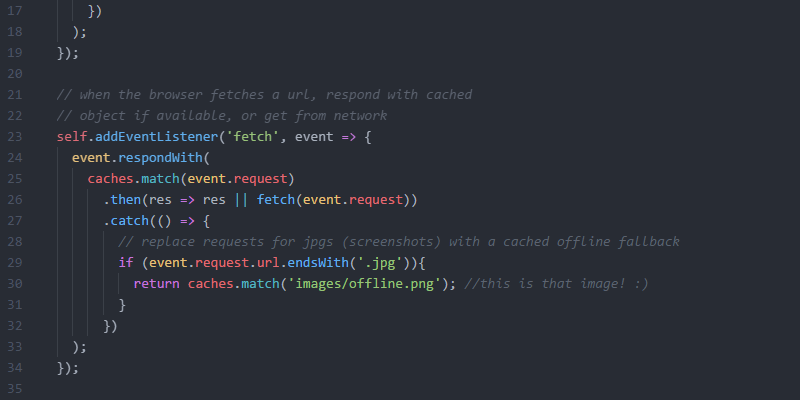
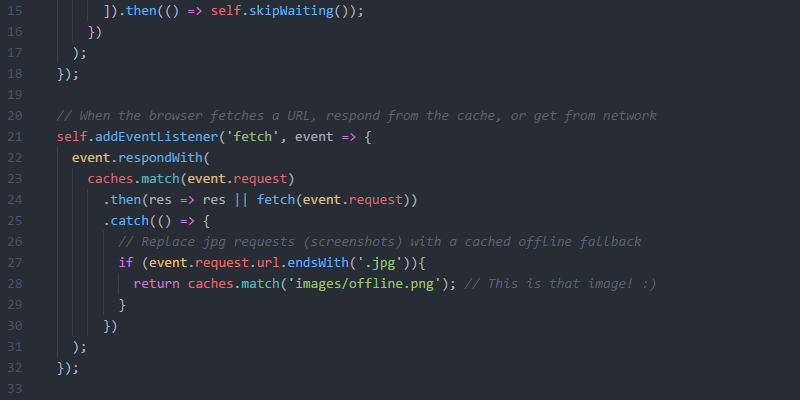
Updated comments
Removed old, commented out code, and updated comments. Updated offline
fallback image.

diff --git a/app/sw.js b/app/sw.js
@@ -1,8 +1,7 @@
 const cacheName = 'v1.0::static';
 
 self.addEventListener('install', event => {
-  // once the SW is installed, go ahead and fetch the resources
-  // to make this work offline
+  // Once SW is installed, fetch the resources to make this work offline
   event.waitUntil(
     caches.open(cacheName).then(cache => {
       return cache.addAll([
@@ -18,28 +17,22 @@ self.addEventListener('install', event => {
   );
 });
 
-// when the browser fetches a url, respond with cached
-// object if available, or get from network
+// When the browser fetches a URL, respond from the cache, or get from network
 self.addEventListener('fetch', event => {
   event.respondWith(
     caches.match(event.request)
       .then(res => res || fetch(event.request))
       .catch(() => {
-        // replace requests for jpgs (screenshots) with a cached offline fallback
+        // Replace jpg requests (screenshots) with a cached offline fallback
         if (event.request.url.endsWith('.jpg')){
-          return caches.match('images/offline.png'); //this is that image! :)
+          return caches.match('images/offline.png'); // This is that image! :)
         }
       })
   );
 });
 
-// self.addEventListener('activate', function(event) {
-//   // Calling claim() to force a "controllerchange" event on navigator.serviceWorker
-//   event.waitUntil(self.clients.claim());
-// });
-
-self.addEventListener("activate", event => {
-  // Replace old cached version with updated one
+self.addEventListener('activate', event => {
+  // Replace old cached objects with updated ones
   function clearOldCaches(){
     return caches.keys()
       .then( keys => {
@@ -48,40 +41,10 @@ self.addEventListener("activate", event => {
           .map(key => caches.delete(key))
         );
       });
-      // .then(function (keys) {
-      //   return Promise.all(
-      //     keys.filter(function (key) {
-      //       return !key.startsWith(cacheName);
-      //     })
-      //     .map(function (key) {
-      //       return caches.delete(key);
-      //     })
-      //   );
-      // });
   }
 
-  // Calling claim() to force a "controllerchange" event on navigator.serviceWorker
+  // Activate Service Worker
   event.waitUntil(clearOldCaches()
     .then( () => self.clients.claim() )
   );
-
-  // console.log('WORKER: activate event in progress.');
-  // event.waitUntil(
-  //   caches
-  //     .keys()
-  //     .then(function (keys) {
-  //       return Promise.all(
-  //         keys
-  //           .filter(function (key) {
-  //             return !key.startsWith(cacheName);
-  //           })
-  //           .map(function (key) {
-  //             return caches.delete(key);
-  //           })
-  //       );
-  //     })
-  //     .then(function() {
-  //       console.log('WORKER: activate completed.');
-  //     })
-  // );
 });

diff --git a/app/js/app.js b/app/js/app.js
@@ -1,35 +1,34 @@
 function init() {
-  window.addEventListener("scroll", function(e) {
+  window.addEventListener('scroll', function(e) {
     var distanceY = window.pageYOffset || document.documentElement.scrollTop,
-        header = document.querySelector("header");
+        header = document.querySelector('header');
     if (distanceY > 0) {
-      header.classList.add("small");
+      header.classList.add('small');
     } else {
-      header.classList.remove("small");
+      header.classList.remove('small');
     }
   });
 
   /* Service Worker! */
-  // if('serviceWorker' in navigator) {
-  //   navigator.serviceWorker
-  //     .register('/sw.js')
-  //     .then(function() {
-  //       console.log("Service Worker registered.");
-  //     }, function(){
-  //       console.log("Service Worker registration failed.");
-  //     });
-  //
-  //   // Listen for claiming of our ServiceWorker
-  //   navigator.serviceWorker.addEventListener('controllerchange', function(event) {
-  //     // Listen for changes in the state of our ServiceWorker
-  //     navigator.serviceWorker.controller.addEventListener('statechange', function() {
-  //       // If the ServiceWorker becomes "activated", let the user know they can go offline!
-  //       if (this.state === 'activated') {
-  //         // Show the "You may now use offline" notification
-  //         console.log("Service Worker activated! Future visits will work offline.");
-  //       }
-  //     });
-  //   });
-  // }
+  if('serviceWorker' in navigator) {
+    navigator.serviceWorker
+      .register('/sw.js')
+      .then(function() {
+        console.log('Service Worker registered.');
+      }, function(){
+        console.log('Service Worker registration failed.');
+      });
+
+    // Listen for claiming of the Service Worker
+    navigator.serviceWorker.addEventListener('controllerchange', function(event) {
+      // Listen for changes in the state of the Service Worker
+      navigator.serviceWorker.controller.addEventListener('statechange', function() {
+        // If the Service Worker is "activated", we're ready to work offline!
+        if (this.state === 'activated') {
+          console.log('Service Worker activated. Future visits will work offline!');
+        }
+      });
+    });
+  }
 }
 window.onload = init();

diff --git a/app/sass/main.scss b/app/sass/main.scss
@@ -185,32 +185,3 @@ footer {
 		}
 	}
 }
-
-/* Service worker messages */
-// .message {
-//     position: fixed;
-//     bottom: 20px;
-//     left: 20px;
-//     background: rgba(0, 0, 0, 0.9);
-// 		color: #fff;
-//     padding: 20px;
-// 		margin: 0;
-//     border-radius: 2px;
-//
-// 		a {
-// 			text-transform: uppercase;
-// 			border: 0;
-// 			font-weight: bold;
-// 			margin-left: 10px
-// 		}
-// }
-//
-// .hidden {
-// 	display: none;
-// }
-//
-// .fadeOut {
-// 	visibility: hidden;
-// 	opacity: 0;
-// 	transition: visibility 0s ease 5.5s, opacity 0.5s ease-out 5s;
-// }

diff --git a/app/index.html b/app/index.html
@@ -86,9 +86,6 @@
         </a>
       </div>
     </footer>
-    <!-- <p class="message hidden" id="offline">Caching successful. Future visits will work offline.</p>
-    <p class="message hidden" id="updated">Updated version available. <a href="#" aria-label="Refresh page">Refresh</a></p> -->
-    <script src="js/app.min.js"></script>
-    <!-- <script src="sw.js"></script> -->
+    <script src="js/app.min.js"></script>    
   </body>
 </html>

diff --git a/app/css/main.css b/app/css/main.css
@@ -176,5 +176,3 @@ footer a:hover, footer a:active, footer a:focus {
     margin: 0 auto;
   }
 }
-
-/* Service worker messages */
